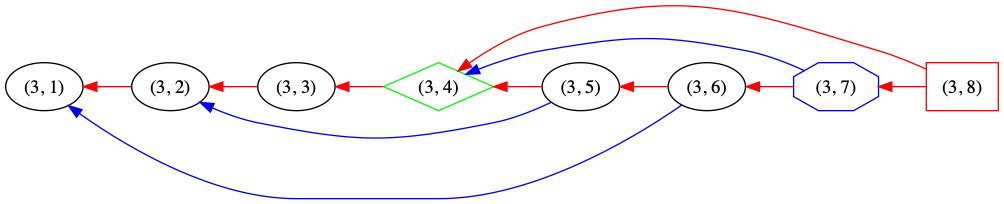
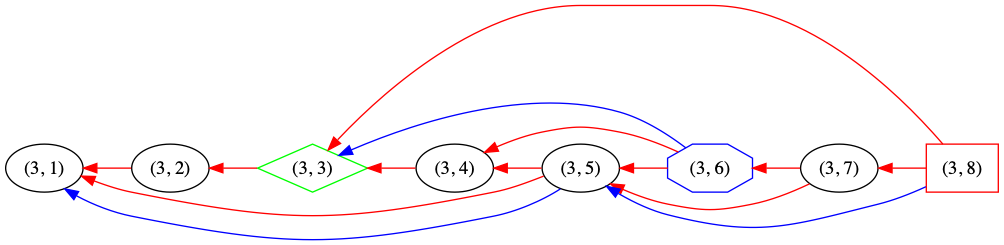
Increase layers and move last layer out of columns.

diff --git a/replication/zigzag-commitments/zigzag-commitments.html b/replication/zigzag-commitments/zigzag-commitments.html
@@ -140,8 +140,20 @@ for the JavaScript code in this tag.
 <h2>Table of Contents</h2>
 <div id="text-table-of-contents">
 <ul>
-<li><a href="#sec-1">1. Graph</a></li>
-<li><a href="#sec-2">2. Columns</a></li>
+<li><a href="#sec-1">1. Graph</a>
+<ul>
+<li><a href="#sec-1-1">1.1. Layer 0 (Even)</a></li>
+<li><a href="#sec-1-2">1.2. Layer 1 (Odd)</a></li>
+<li><a href="#sec-1-3">1.3. Layer 2 (Even)</a></li>
+<li><a href="#sec-1-4">1.4. Layer 3 (Odd)</a></li>
+</ul>
+</li>
+<li><a href="#sec-2">2. Details</a>
+<ul>
+<li><a href="#sec-2-1">2.1. Columns</a></li>
+<li><a href="#sec-2-2">2.2. Final Layer</a></li>
+</ul>
+</li>
 </ul>
 </div>
 </div>
@@ -154,26 +166,44 @@ Both renumbered and reversed parents are generated by a pseudorandom permutation
 nature of the zigzag commitment scheme. They accurately represent how parent-child relationships change between layers,
 and are accurate for expander parents. However, this is not representative of the DRG parent selection algorithm.
 </p>
+</div>
+
+<div id="outline-container-sec-1-1" class="outline-3">
+<h3 id="sec-1-1"><span class="section-number-3">1.1</span> Layer 0 (Even)</h3>
+<div class="outline-text-3" id="text-1-1">
 
 <div class="figure">
 <p><img src="layer-0.png" alt="layer-0.png" />
 </p>
 </div>
+</div>
+</div>
 
-
+<div id="outline-container-sec-1-2" class="outline-3">
+<h3 id="sec-1-2"><span class="section-number-3">1.2</span> Layer 1 (Odd)</h3>
+<div class="outline-text-3" id="text-1-2">
 
 <div class="figure">
 <p><img src="layer-1.png" alt="layer-1.png" />
 </p>
 </div>
+</div>
+</div>
 
-
+<div id="outline-container-sec-1-3" class="outline-3">
+<h3 id="sec-1-3"><span class="section-number-3">1.3</span> Layer 2 (Even)</h3>
+<div class="outline-text-3" id="text-1-3">
 
 <div class="figure">
 <p><img src="layer=2.png" alt="layer=2.png" />
 </p>
 </div>
+</div>
+</div>
 
+<div id="outline-container-sec-1-4" class="outline-3">
+<h3 id="sec-1-4"><span class="section-number-3">1.4</span> Layer 3 (Odd)</h3>
+<div class="outline-text-3" id="text-1-4">
 
 <div class="figure">
 <p><img src="layer=3.png" alt="layer=3.png" />
@@ -181,10 +211,14 @@ and are accurate for expander parents. However, this is not representative of th
 </div>
 </div>
 </div>
+</div>
 
 <div id="outline-container-sec-2" class="outline-2">
-<h2 id="sec-2"><span class="section-number-2">2</span> Columns</h2>
+<h2 id="sec-2"><span class="section-number-2">2</span> Details</h2>
 <div class="outline-text-2" id="text-2">
+</div><div id="outline-container-sec-2-1" class="outline-3">
+<h3 id="sec-2-1"><span class="section-number-3">2.1</span> Columns</h3>
+<div class="outline-text-3" id="text-2-1">
 <table border="2" cellspacing="0" cellpadding="6" rules="groups" frame="hsides">
 
 
@@ -238,7 +272,35 @@ and are accurate for expander parents. However, this is not representative of th
 <td class="left">(2, 7)</td>
 <td class="left">(2, 8)</td>
 </tr>
+</tbody>
+</table>
+</div>
+</div>
 
+<div id="outline-container-sec-2-2" class="outline-3">
+<h3 id="sec-2-2"><span class="section-number-3">2.2</span> Final Layer</h3>
+<div class="outline-text-3" id="text-2-2">
+<table border="2" cellspacing="0" cellpadding="6" rules="groups" frame="hsides">
+
+
+<colgroup>
+<col  class="left" />
+
+<col  class="left" />
+
+<col  class="left" />
+
+<col  class="left" />
+
+<col  class="left" />
+
+<col  class="left" />
+
+<col  class="left" />
+
+<col  class="left" />
+</colgroup>
+<tbody>
 <tr>
 <td class="left">(3, 8)</td>
 <td class="left">(3, 7)</td>
@@ -251,6 +313,7 @@ and are accurate for expander parents. However, this is not representative of th
 </tr>
 </tbody>
 </table>
+</div>
 </div>
 </div>
 </div>
